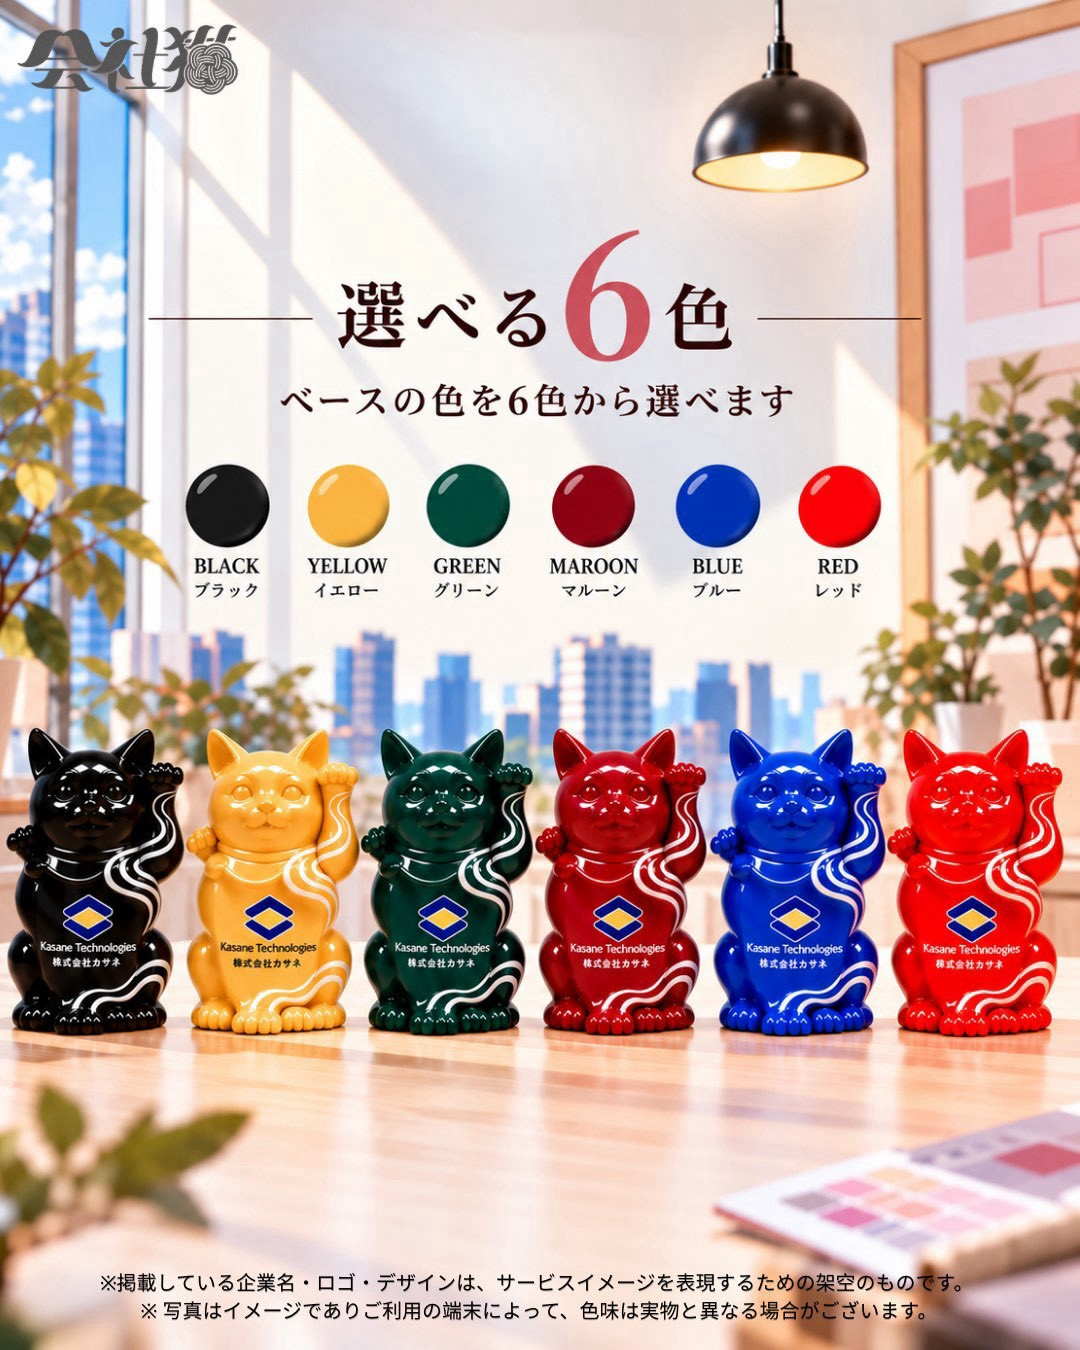
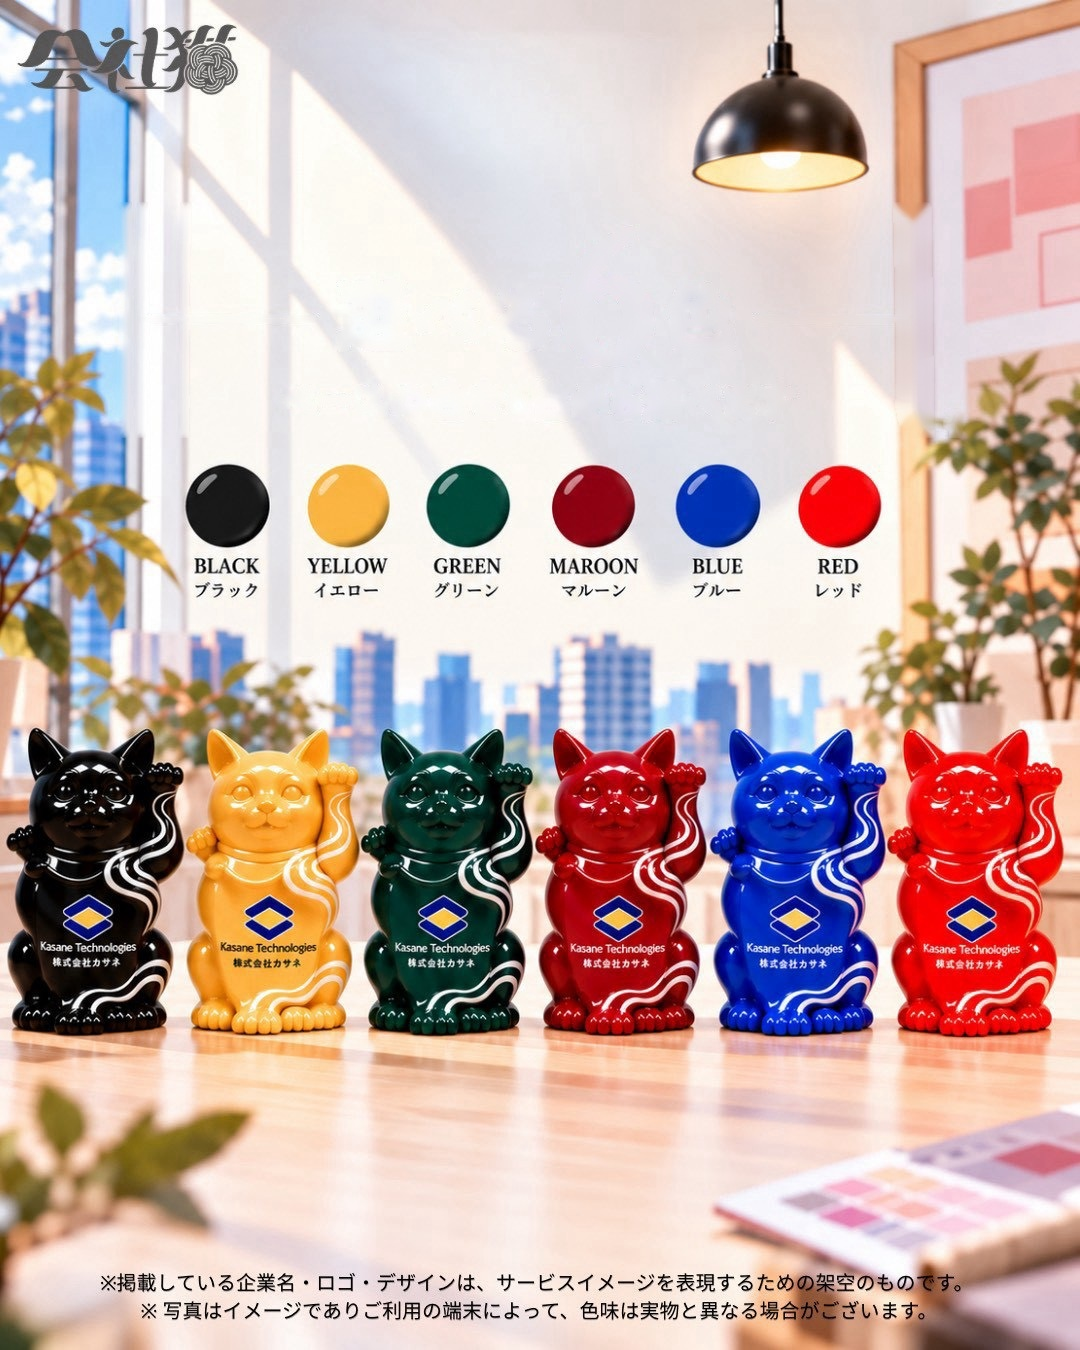
選べる6色の見出しを戻し、画像側の見出し文字を削除

diff --git a/index.html b/index.html
@@ -533,8 +533,16 @@
         </div>
       </section>
 
-      <section id="colors" class="section colors-section" aria-label="選べる6色">
+      <section id="colors" class="section colors-section">
         <div class="container colors-wrap">
+          <h2 class="size-title">
+            <span aria-hidden="true"></span>
+            選べる6色
+            <span aria-hidden="true"></span>
+          </h2>
+          <p class="size-subtitle">Colors</p>
+          <p class="colors-intro">本体のベースカラーを、6色からお選びいただけます。</p>
+
           <ul class="color-swatches" aria-label="選べる本体色">
               <li class="color-swatch">
                 <span class="color-swatch-chip" style="--swatch: #171717" aria-hidden="true"></span>
